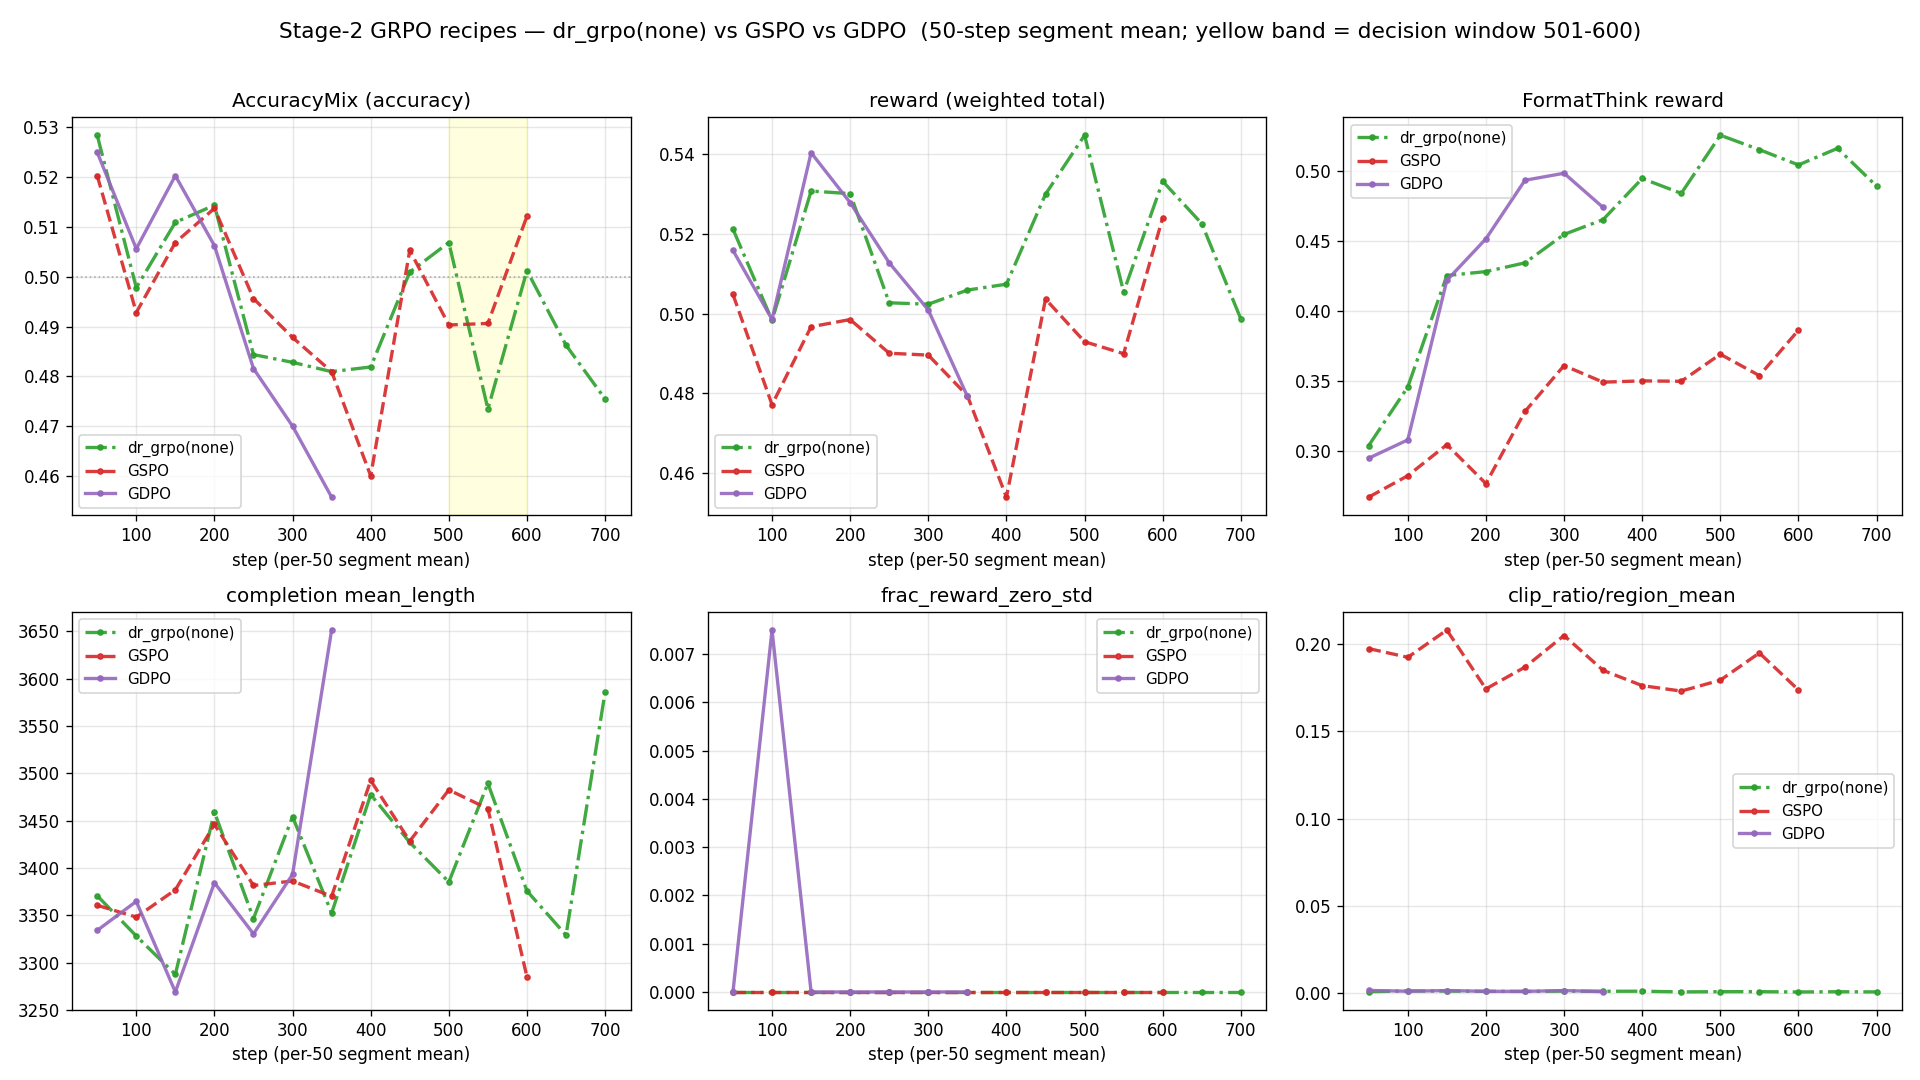
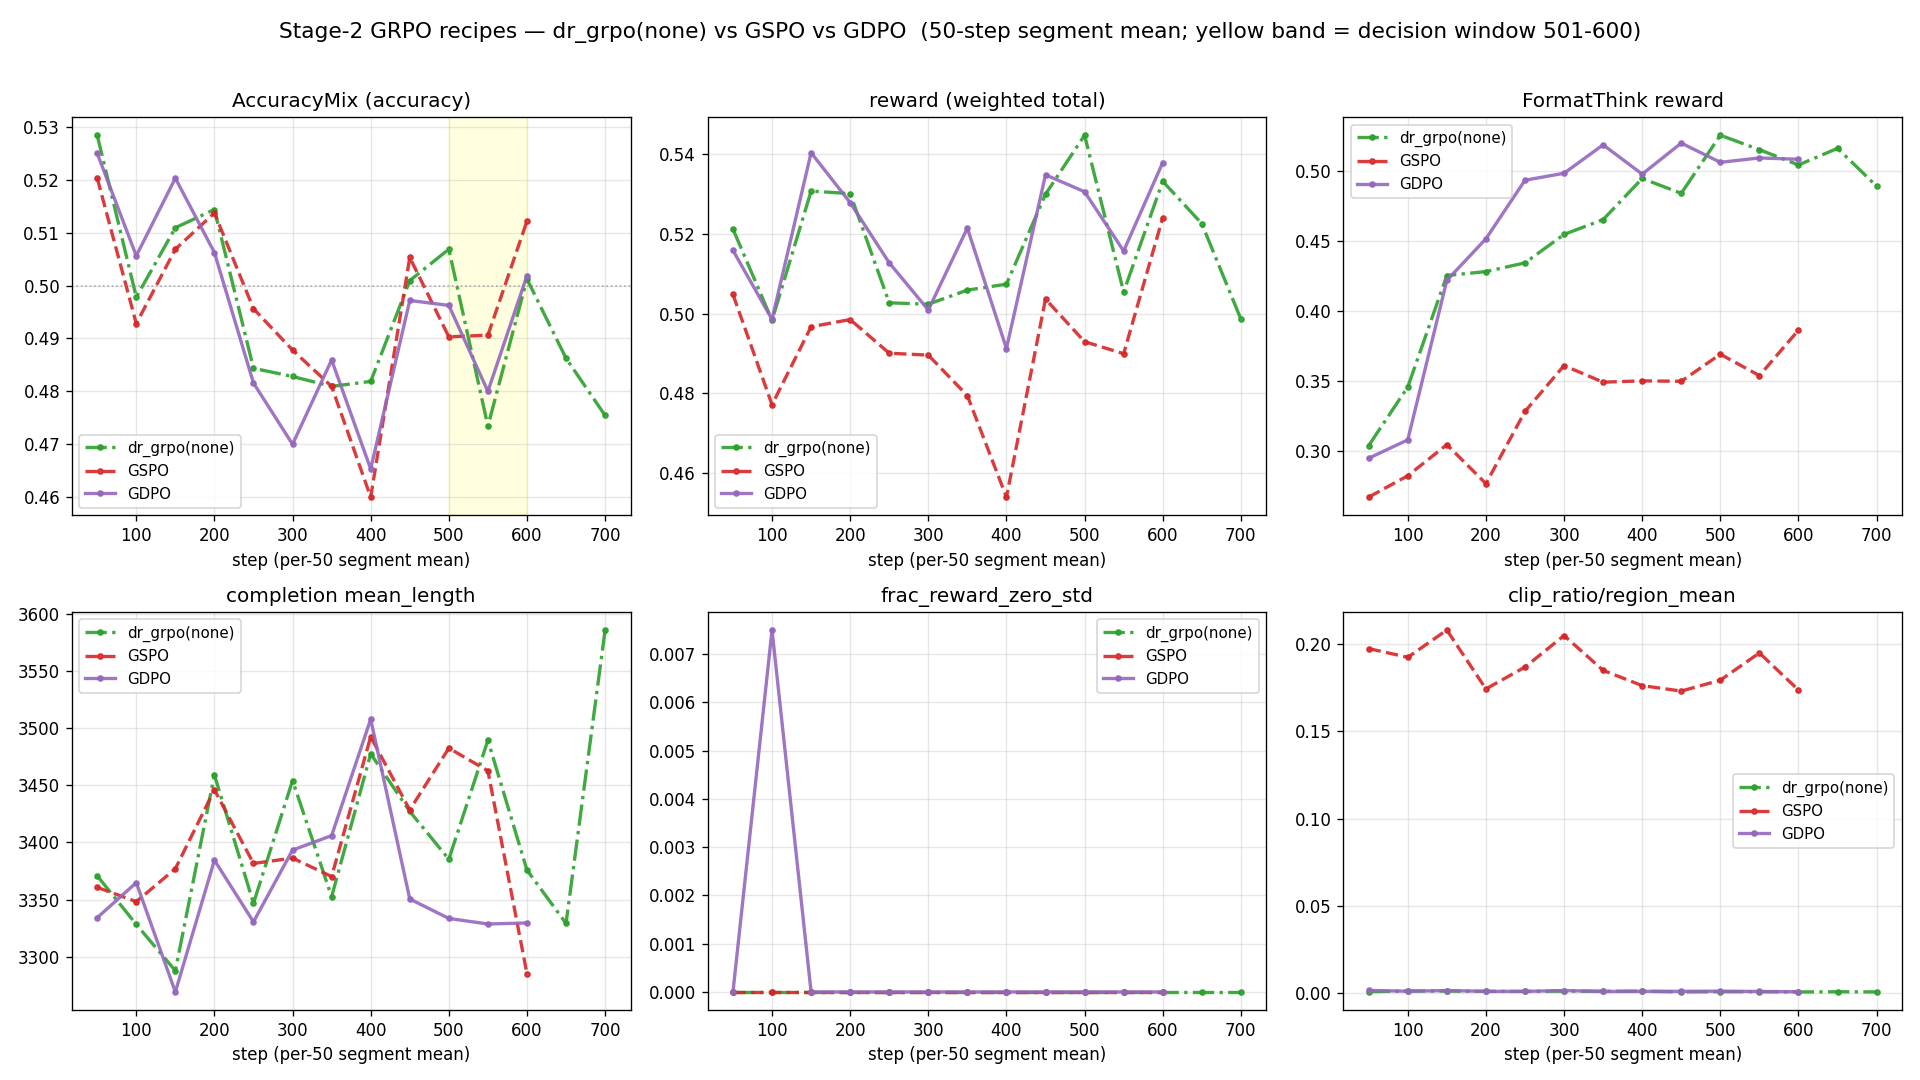
docs: Stage-2 방법론 실험 종결 반영 — 프레이밍 '진행중→결론'
- 요약/현황: GDPO A/B 검증완료, Stage-2 방법론 확정(dr_grpo 채택·GSPO 미채택·GDPO Stage-3용)
- '본선 중단·재학습 중' → 'Stage-2 결론'(step600 홀드아웃 0.38-0.39 포화)
- 정비 이력: '교정 중' → '해결됨'
- 코호트 B 플롯 GDPO 완주(step600) 데이터로 재생성 + 캡션 갱신
- '재측정 예정' → step600 확정 수치로 대체

Claude-Session: https://claude.ai/code/session_01691JNmiZ3sHwpdCMxm8PmQ

diff --git a/README.md b/README.md
@@ -17,12 +17,10 @@
 | **Stage-2 기법** | GRPO 파생 A/B 로 **dr_grpo 승자 확정**(baseline·DAPO plateau 미돌파). → [상세](#stage-2--범용-rlvr-grpo) |
 | **🎯 중간 벤치마크** | **RL 25%(step 800)에서 층화 홀드아웃 Acc: init 0.22 → trained 0.38 (+73%)** — RL이 정확도 확실히 개선. base 0.15 대비 +153%. → [상세](#stage-2--범용-rlvr-grpo) |
 | **최신기법 A/B** | **GSPO** ✅완료·**미채택**(판정창 동률). **GDPO** ✅**완주·판정 완료**(step600): on-policy 판정창 동률(Acc 0.487 vs 0.490) + **층화 홀드아웃(N=200) dr_grpo 0.380 vs GDPO 0.390**(Δ+0.01, 노이즈 내 **동률**·GDPO 미세우위). → **Stage-2는 무차별, Stage-3(스케일차 큰 멀티리워드)엔 GDPO 채택 권고**. → [상세](#stage-2--범용-rlvr-grpo) |
-| **Stage-2 본선** | dr_grpo 1-epoch 재학습은 checkpoint-1050(step~1066, **33%**)에서 **중단**(GDPO A/B에 자원 집중). 이 ckpt는 Stage-3 init 후보로 병합 대기. |
-| **Stage-3 (RaR)** | 루브릭·judge·배선 **end-to-end 검증 완료**(유닛 29/29·스모크·내부망·분포). 본실행만 남음 → [상세](#stage-3--의료-rl-rar-루브릭-보상) |
+| **Stage-2 결론** | **방법론 실험 종결** — dr_grpo 채택(승자), GSPO 미채택, GDPO Stage-3용. 홀드아웃 step600 **~0.38–0.39 포화** 확인. step600 체크포인트(dr_grpo/GDPO)가 **Stage-3 init 후보**. |
+| **Stage-3 (RaR)** | 루브릭·judge·배선 **end-to-end 검증 완료**(유닛 29/29·스모크·내부망·분포). **본실행이 다음 단계** → [상세](#stage-3--의료-rl-rar-루브릭-보상) |
 
-⚠ **주의(정비 이력)**: 파일럿 dr_grpo 는 ① 데이터 **21%만** 학습(중간 중단) ② 평가가 학습 파일 stride 슬라이스라 **누수**였음.
-→ **정답유형 층화 홀드아웃 분리**(math 453 + visual-logic 519) + **init 부터 fresh 1 epoch 재학습**으로 교정 중.
-이전 **"+67%" 벤치마크는 무효**(오염) — 완주 후 층화 홀드아웃에서 재측정.
+✅ **정비 이력(해결됨)**: 파일럿 dr_grpo 의 ① 데이터 **21%만** 학습 ② 평가가 학습 파일 stride 슬라이스라 **누수**였던 문제를 → **정답유형 층화 홀드아웃 분리**(math 453 + visual-logic 519) + **init 부터 fresh 재학습**으로 교정 완료. 무효였던 "+67%"는 폐기하고 **층화 홀드아웃 정식 수치(+73%·step600 0.38–0.39)로 대체**.
 
 ---
 
@@ -62,7 +60,7 @@
 
 ## Stage-2 · 범용 RLVR (GRPO)
 
-> **요약**: baseline GRPO 에서 **Acc plateau** 진단 → GRPO 파생기법 **clean A/B** → **dr_grpo 승자**(plateau 돌파). 홀드아웃 누수·과소학습을 바로잡아 **층화 홀드아웃 + fresh 재학습**으로 교정, 중간 벤치마크서 **+73% 확인**. 현재 **GDPO A/B**로 멀티리워드 정규화를 추가 검증 중(dr_grpo 본선은 33%서 중단). 정식 벤치마크는 A/B 확정 후 교체.
+> **요약 (Stage-2 방법론 실험 완료)**: baseline GRPO 에서 **Acc plateau** 진단 → GRPO 파생기법 5종 **clean A/B** → **dr_grpo 승자**(plateau 돌파, 홀드아웃 +73%). 최신기법 **GSPO·GDPO**도 동일 A/B로 검증 → **둘 다 dr_grpo와 동률**(GSPO 미채택, GDPO는 Stage-3용 채택 권고). 홀드아웃 누수는 **층화 분리**로 교정, step600서 홀드아웃 **~0.38–0.39 포화** 확인. **Stage-2 방법론 확정** — 남은 건 Stage-3.
 
 ### 1) baseline → Acc plateau 진단 (job 57249, step 1000 완주)
 
@@ -122,7 +120,7 @@ baseline plateau를 뚫기 위해 GRPO 파생기법 5종을 **기법 외 전 조
 
 **코호트 B — 최신기법 A/B (trainonly, 동일 init·데이터): dr_grpo(none) vs GSPO vs GDPO**
 ![Stage-2 B: dr_grpo/GSPO/GDPO](docs/assets/grpo_stage2_B_latest.png)
-*(Acc·reward는 3자 거의 겹침(동급). **FormatThink에서 GDPO(보라)가 뚜렷이 상승**(멀티리워드 균형 효과), **clip에서 GSPO(빨강)만 크게 높음**(~0.18, 작은 ε 설계상). GDPO는 step ~300까지라 이후는 미도달. GSPO는 완주·동률 → 미채택.)*
+*(3기법 모두 step600 완주. Acc·reward는 3자 거의 겹침(**동률**). FormatThink는 GDPO(보라)가 중반 우위였으나 **판정창(노란 띠)서 dr_grpo와 수렴**. **clip에서 GSPO(빨강)만 크게 높음**(~0.18, 작은 ε 설계상). → GSPO·GDPO 둘 다 dr_grpo와 동률: GSPO 미채택, GDPO는 Stage-3용 채택 권고.)*
 
 <details><summary>플롯 재생성 명령</summary>
 
@@ -199,8 +197,8 @@ singularity exec $SB python scripts/plot_grpo_multi.py docs/assets/grpo_stage2_B
 
 - 🎯 **init → trained: 0.22 → 0.38 (+0.16, 상대 +73%)** — **Stage-2 RL 이 홀드아웃 정확도를 확실히 개선**(25%만 학습했는데도). → **전량 학습 계속**(조기종료 불필요) 근거.
 - base → trained **+153%**(전체 파이프라인 SFT+RL). visual-logic 개선 최대(0.21→0.42, +100%), 형식 0.12→0.45, 길이 5907→4752자(간결화).
-- ⚠ **"학습 롤아웃 Acc ~0.50 정체"는 오해였음**: on-policy(탐색 포함) 지표라 평탄했을 뿐, 정작 중요한 **홀드아웃에선 뚜렷이 상승**. → 조기 확인 결과 "계속".
-- 1 epoch 완주 후 최종 checkpoint 로 **재측정하여 이 표 갱신** 예정.
+- ⚠ **"학습 롤아웃 Acc ~0.50 정체"는 오해였음**: on-policy(탐색 포함) 지표라 평탄했을 뿐, 정작 중요한 **홀드아웃에선 뚜렷이 상승**.
+- ✅ **step600 재측정으로 확정**(아래 GDPO 판정표): dr_grpo/GDPO 둘 다 **0.38–0.39** → step800(0.38)과 동일 = **홀드아웃이 step600쯤 포화**(전량 학습해도 큰 추가이득 없음, Stage-2 조기확정 근거).
 
 #### GDPO 최종 판정 (step600 홀드아웃 A/B)
 
